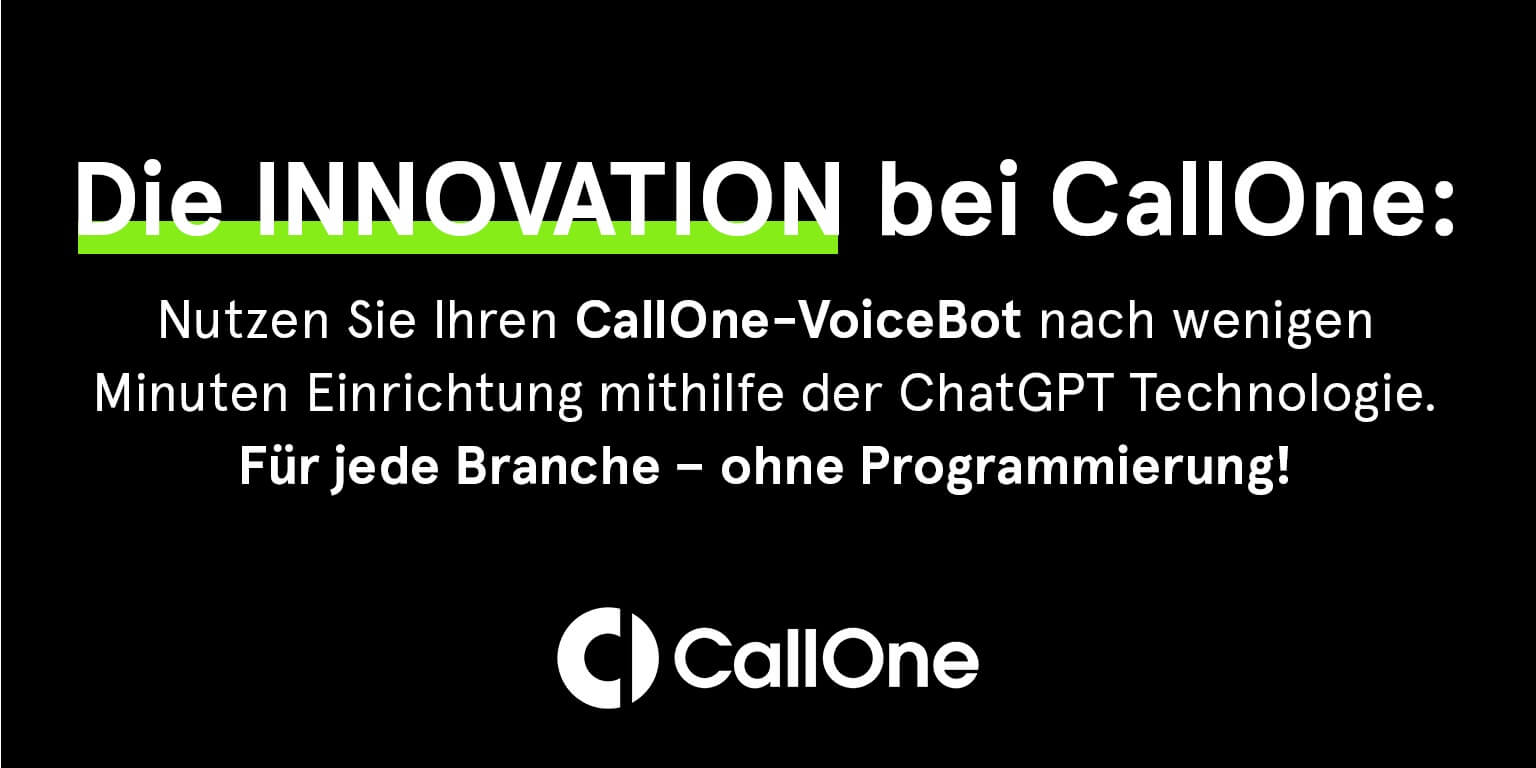
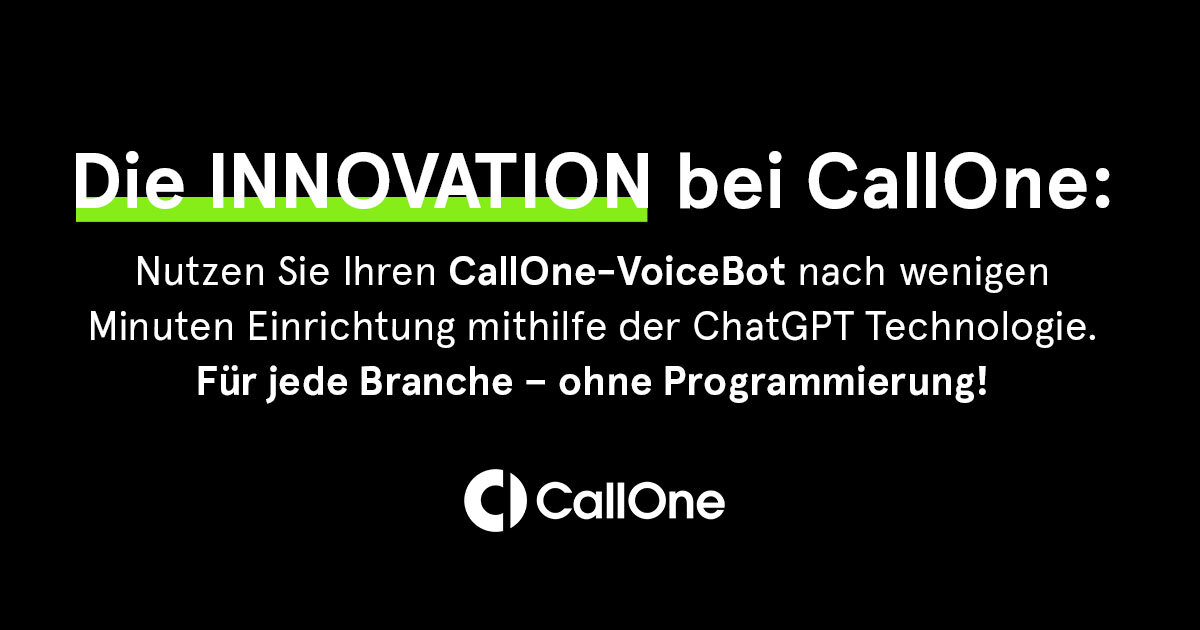
feat(voicebotlp): various fixes on text + image
canonical fix, image path fix, text fixes, new social image

diff --git a/src/voicebot/index.html b/src/voicebot/index.html
@@ -4,16 +4,16 @@
 <head>
     <meta charset="UTF-8" />
 
-    <meta property="og:title" content="Innovation bei CallOne"/>
+    <meta property="og:title" content="Die Innovation bei CallOne – der ChatGPT-Voicebot"/>
     <meta property="og:site_name" content="Callone"/>
     <meta property="og:locale" content="de_DE"/>
     <meta property="og:type" content="website" />
-    <meta property="og:url" content="https://www.callone.de/voicebot" />
+    <meta property="og:url" content="https://www.callone.de/voicebot/" />
 
-    <meta property="og:image" content="https://www.callone.de/voicebot/assets/images/callone_voicebot.jpeg" />
-    <meta property="twitter:image" content="https://www.callone.de/voicebot/assets/images/callone_voicebot.jpeg">	
+    <meta property="og:image" content="https://www.callone.de/voicebot/assets/callone_voicebot.jpeg" />
+    <meta property="twitter:image" content="https://www.callone.de/voicebot/assets/callone_voicebot.jpeg">	
 
-    <link rel="canonical" href="https://www.callone.de/voicebot" />
+    <link rel="canonical" href="https://www.callone.de/voicebot/" />
     <meta name="robots" content="index, follow">
 
     <link rel="apple-touch-icon" sizes="180x180" href="https://www.callone.de/assets/images/favicons/apple-touch-icon.png">

diff --git a/src/voicebot/success.html b/src/voicebot/success.html
@@ -31,15 +31,12 @@
         <div class="flex justify-center"><img class="h-16" src="/voicebot/assets/callone-logo-weiss-4695b189.png"></div>
 
         <h1 class="accent_font text-white text-6xl text-center"><span class="highlight">Fast geschafft!</span></h1>
-        <p class="text-white text-center max-w-3xl mx-auto">
-          Wir müssen Ihre E-Mail-Adresse bestätigen, um den
-          Registrierungsprozess abzuschließen.
-          
-          Klicken Sie bitte auf den Link in der E-Mail, die wir Ihnen gerade
-          gesendet haben.
-          
-          Sie werden nicht registriert, wenn Sie nicht auf den
-          Bestätigungslink klicken.
+        <p class="text-white text-center max-w-xl mx-auto">
+            Wir müssen Ihre E-Mail-Adresse bestätigen, um den
+            Registrierungsprozess abzuschließen. Klicken Sie bitte auf den Link in der E-Mail, die wir Ihnen gerade gesendet haben.<br><br>Bitte schauen Sie ggf. auch in Ihrem SPAM-Ordner nach.
+            
+            Sie werden nicht registriert, wenn Sie nicht auf den
+            Bestätigungslink klicken.
         </p>
 
         <div class="mx-auto text-center color-white">
